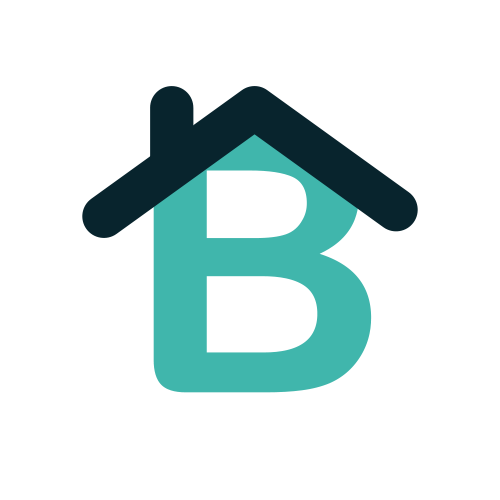
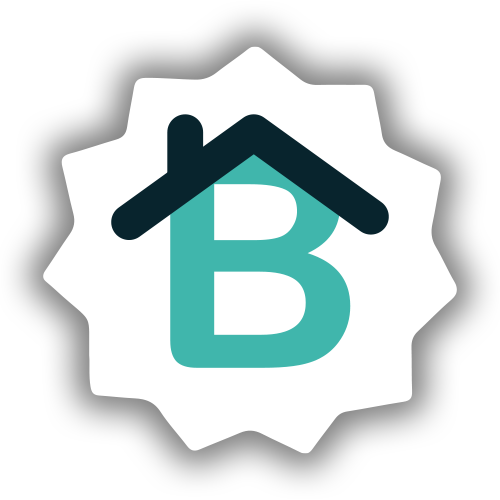
feat: new sponsorship badge

Changed region(s): [[0.03, 0.03, 0.96, 0.96]]

diff --git a/src/pages/AdvancedSearch.vue b/src/pages/AdvancedSearch.vue
@@ -447,11 +447,11 @@ export default {
                 <!-- SPONSOR-BADGE -->
                 <div
                   v-if="checkDates(element.expiration_date) === true"
-                  class="sponsor-container position-absolute top-0 end-0 m-2 bg-white p-1 rounded shadow-sm d-flex align-items-center justify-content-center"
+                  class="sponsor-container position-absolute top-0 end-0 m-2 p-1 "
                 >
                   <img
                     class="w-100 h-100"
-                    src="../../logo-boolbnb.png"
+                    src="../../badge-boolbnb-sponsor.png"
                     alt="logo-sponsored"
                   />
                 </div>
@@ -695,7 +695,7 @@ export default {
 }
 
 .sponsor-container {
-  width: 30px;
+  width: 55px;
   aspect-ratio: 1;
 }
 </style>
